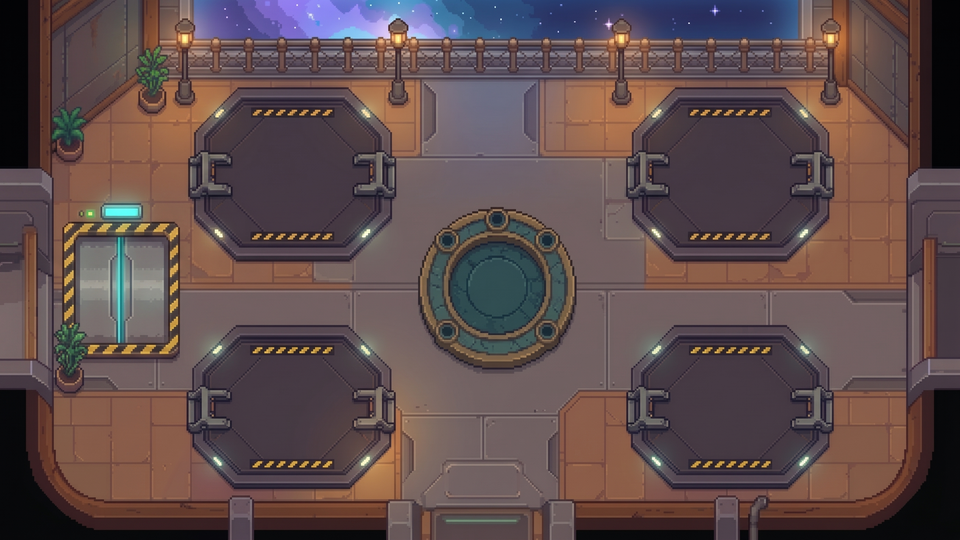
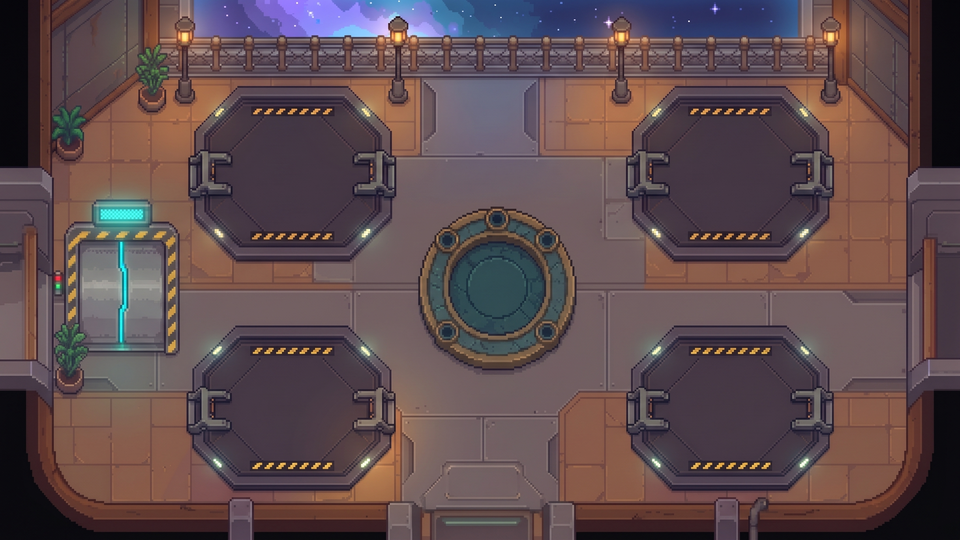
feat(welt): Marktterrasse mit echtem Hintergrund & Theken-Sprites, Hangar-Tür in die Wand, HUD-Hinweis
Claude-Session: https://claude.ai/code/session_016nKYwkpeUHJGHpF5xe8T1D

diff --git a/src/scenes/MarketTerraceScene.ts b/src/scenes/MarketTerraceScene.ts
@@ -1,5 +1,5 @@
 import { getHDArt } from '../assets/artLoader';
-import { drawGlow, drawPixelShadow } from '../assets/pixelArt';
+import { drawContactShadow, drawFloorGlow, drawGlow, drawPixelShadow } from '../assets/pixelArt';
 import { getAtlas } from '../assets/sprites';
 import { ALCHEMY_BUFFS } from '../data/guildMarket';
 import { sound } from '../engine/audio';
@@ -28,8 +28,8 @@ interface Particle {
 
 const DECK_LEFT = 68;
 const DECK_RIGHT = 412;
-const DECK_TOP = 104;
-const DECK_BOTTOM = 224;
+const DECK_TOP = 102;
+const DECK_BOTTOM = 186; // Geländer des generierten Hintergrunds liegt bei y ≈ 196
 
 const HUB_RETURN_POS = { x: 240, y: 106 };
 const ALCHEMY_BAR_POS = { x: 132, y: 152 };
@@ -265,18 +265,20 @@ export class MarketTerraceScene {
       ctx.fillRect(0, 0, VIRTUAL_WIDTH, VIRTUAL_HEIGHT);
     }
 
-    // Twinkling stars in upper & lower starfield vistas
-    for (const s of this.stars) {
+    // Twinkling stars in upper & lower starfield vistas (nur beim prozeduralen Fallback — das Bild hat eigene Sterne)
+    for (const s of art.marketTerraceBg ? [] : this.stars) {
       const a = 0.25 + 0.75 * Math.max(0, Math.sin(this.time * 2.5 + s.phase));
       ctx.fillStyle = `rgba(255, 250, 224, ${a * (isNight ? 1.0 : 0.78)})`;
       ctx.fillRect(s.x, s.y, isNight ? 1.8 : 1.4, isNight ? 1.8 : 1.4);
     }
 
     // Ambient station glows
-    drawGlow(ctx, ALCHEMY_BAR_POS.x, ALCHEMY_BAR_POS.y - 4, 42, '#34d399', 0.24 + pulse * 0.1);
-    drawGlow(ctx, GUILD_SHOWCASE_POS.x, GUILD_SHOWCASE_POS.y - 4, 34, '#fbbf24', 0.22 + pulse * 0.08);
-    drawGlow(ctx, TRADE_BANK_POS.x, TRADE_BANK_POS.y - 4, 42, '#fde047', 0.24 + pulse * 0.1);
-    drawGlow(ctx, HUB_RETURN_POS.x, HUB_RETURN_POS.y - 8, 28, '#38e8d4', 0.22 + pulse * 0.08);
+    if (!art.marketTerraceBg) {
+      drawGlow(ctx, ALCHEMY_BAR_POS.x, ALCHEMY_BAR_POS.y - 4, 42, '#34d399', 0.24 + pulse * 0.1);
+      drawGlow(ctx, GUILD_SHOWCASE_POS.x, GUILD_SHOWCASE_POS.y - 4, 34, '#fbbf24', 0.22 + pulse * 0.08);
+      drawGlow(ctx, TRADE_BANK_POS.x, TRADE_BANK_POS.y - 4, 42, '#fde047', 0.24 + pulse * 0.1);
+      drawGlow(ctx, HUB_RETURN_POS.x, HUB_RETURN_POS.y - 8, 28, '#38e8d4', 0.22 + pulse * 0.08);
+    }
 
     // Depth-sorted entities: NPCs, kiosks, player
     type Drawable = { y: number; draw: () => void };
@@ -389,6 +391,21 @@ export class MarketTerraceScene {
     const y = ALCHEMY_BAR_POS.y;
     const bob = Math.sin(this.time * 3.1) * 0.6;
 
+    if (art.marketBar) {
+      // Sprite: Regal (oberer Teil) → Milo → Thekenkörper (unterer Teil), Unterkante bei y + 12
+      const bw = 88;
+      const bh = Math.round((bw * art.marketBar.height) / art.marketBar.width);
+      const bx = x - bw / 2;
+      const by = y + 12 - bh;
+      const split = 0.5;
+      drawFloorGlow(ctx, x, y + 11, 44, '#34d399', 0.12 + pulse * 0.05);
+      drawContactShadow(ctx, art.marketBar, bx, by, bw, bh, 0.75);
+      ctx.drawImage(art.marketBar, 0, 0, art.marketBar.width, art.marketBar.height * split, bx, by, bw, bh * split);
+      if (art.npcWanderer) ctx.drawImage(art.npcWanderer, x - 12, y - 30 + bob, 24, 28);
+      ctx.drawImage(art.marketBar, 0, art.marketBar.height * split, art.marketBar.width, art.marketBar.height * (1 - split), bx, by + bh * split, bw, bh * (1 - split));
+      return;
+    }
+
     // Barkeeper Milo behind counter
     if (art.npcWanderer) {
       ctx.drawImage(art.npcWanderer, x - 12, y - 34 + bob, 24, 28);
@@ -421,8 +438,18 @@ export class MarketTerraceScene {
   }
 
   private renderGuildShowcase(ctx: CanvasRenderingContext2D, pulse: number): void {
+    const art = getHDArt();
     const x = GUILD_SHOWCASE_POS.x;
     const y = GUILD_SHOWCASE_POS.y;
+    if (art.marketGuild) {
+      const gw = 34;
+      const gh = Math.round((gw * art.marketGuild.height) / art.marketGuild.width);
+      drawFloorGlow(ctx, x, y + 11, 24, '#fbbf24', 0.12 + pulse * 0.05);
+      drawContactShadow(ctx, art.marketGuild, x - gw / 2, y + 12 - gh, gw, gh, 0.75);
+      ctx.drawImage(art.marketGuild, x - gw / 2, y + 12 - gh, gw, gh);
+      drawGlow(ctx, x, y - 14, 12, '#fbbf24', 0.14 + pulse * 0.08);
+      return;
+    }
     drawPixelShadow(ctx, x, y + 10, 22, 5, 0.45);
 
     ctx.fillStyle = '#1e293b';
@@ -445,6 +472,20 @@ export class MarketTerraceScene {
     const x = TRADE_BANK_POS.x;
     const y = TRADE_BANK_POS.y;
     const bob = Math.sin(this.time * 3.6 + 1.2) * 1.4;
+
+    if (art.marketBank) {
+      const bw = 88;
+      const bh = Math.round((bw * art.marketBank.height) / art.marketBank.width);
+      const bx = x - bw / 2;
+      const by = y + 12 - bh;
+      const split = 0.45;
+      drawFloorGlow(ctx, x, y + 11, 44, '#fde047', 0.1 + pulse * 0.05);
+      drawContactShadow(ctx, art.marketBank, bx, by, bw, bh, 0.75);
+      ctx.drawImage(art.marketBank, 0, 0, art.marketBank.width, art.marketBank.height * split, bx, by, bw, bh * split);
+      if (art.botClerk) ctx.drawImage(art.botClerk, x - 11, y - 30 + bob, 22, 25);
+      ctx.drawImage(art.marketBank, 0, art.marketBank.height * split, art.marketBank.width, art.marketBank.height * (1 - split), bx, by + bh * split, bw, bh * (1 - split));
+      return;
+    }
 
     // Bank droid hovering behind vault terminal
     if (art.botClerk) {

diff --git a/src/assets/artLoader.ts b/src/assets/artLoader.ts
@@ -78,6 +78,9 @@ export interface HDArtAssets {
   vitrineT1: HTMLCanvasElement | null;
   vitrineT2: HTMLCanvasElement | null;
   vitrineT3: HTMLCanvasElement | null;
+  marketBar: HTMLCanvasElement | null;
+  marketGuild: HTMLCanvasElement | null;
+  marketBank: HTMLCanvasElement | null;
   propTrophyLeviathan: HTMLCanvasElement | null;
   /** M12 Phase C: Arena-Boden & Boss-Wand (optional, Fallback arenaFloor.ts) */
   arenaLeviathanBg: HTMLCanvasElement | null;
@@ -322,6 +325,9 @@ const art: HDArtAssets = {
   vitrineT1: null,
   vitrineT2: null,
   vitrineT3: null,
+  marketBar: null,
+  marketGuild: null,
+  marketBank: null,
   propTrophyLeviathan: null,
   arenaLeviathanBg: null,
   arenaLeviathanWall: null,
@@ -541,6 +547,9 @@ export const WORLD_OPTIONAL_SPRITES = {
   vitrineT1: 'vitrine_t1',
   vitrineT2: 'vitrine_t2',
   vitrineT3: 'vitrine_t3',
+  marketBar: 'market_bar',
+  marketGuild: 'market_guild',
+  marketBank: 'market_bank',
 } as const;
 export type WorldSpriteKey = keyof typeof WORLD_OPTIONAL_SPRITES;
 
@@ -953,6 +962,7 @@ export async function preloadHDArt(): Promise<HDArtAssets> {
     art[k] = imgToCanvas(m10Imgs[i]);
   });
 
+  art.marketTerraceBg = await loadImage('/art/market_terrace_bg.png');
   const worldKeys = Object.keys(WORLD_OPTIONAL_SPRITES) as WorldSpriteKey[];
   const worldImgs = await Promise.all(worldKeys.map((k) => loadImage(`/art/sprites/${WORLD_OPTIONAL_SPRITES[k]}.png`)));
   worldKeys.forEach((k, i) => {

diff --git a/src/ui/UIManager.ts b/src/ui/UIManager.ts
@@ -514,6 +514,10 @@ export class UIManager {
                     ? `<span><kbd>WASD</kbd>Raumhafen</span>
                        <span><kbd>E</kbd>Schiff besteigen / Docks / 5. Tor</span>
                        <span><kbd>I</kbd>Fracht &amp; Waffen</span>`
+                    : this.currentScene === 'market_terrace'
+                      ? `<span><kbd>WASD</kbd>Terrasse</span>
+                         <span><kbd>E</kbd>Alchemie-Bar / Gilde / Handelsbank / zurück</span>
+                         <span><kbd>I</kbd>Fracht &amp; Codex</span>`
                     : `<span><kbd>LMB/J</kbd>${wMeta.shortName}</span>
                        <span><kbd>RMB/K</kbd>${this.state.equippedWeapon === 'blade' ? 'Schild' : 'Spezial'}</span>
                        <span><kbd>C</kbd>Wechseln</span>

diff --git a/src/assets/pixelArt.ts b/src/assets/pixelArt.ts
@@ -170,7 +170,7 @@ export function drawContactShadow(
   const baseW = Math.max(4, (fp.right - fp.left) * dw);
   const cx = dx + ((fp.left + fp.right) / 2) * dw;
   const by = dy + fp.bottom * dh;
-  const ry = Math.max(2.4, baseW * 0.17);
+  const ry = Math.min(7, Math.max(2.4, baseW * 0.17)); // breite Theken: Schattentiefe begrenzen
   // Drei Lagen: weiter Boden-Schatten (deutlich breiter als die Standfläche), mittlerer Schatten, harter Kontaktkern direkt unter der Kante
   drawPixelShadow(ctx, cx, by - ry * 0.2, baseW * 0.74, ry * 1.1, alpha * 0.4);
   drawPixelShadow(ctx, cx, by - ry * 0.45, baseW * 0.6, ry * 0.8, alpha * 0.65);

diff --git a/handoff/world_overhaul.md b/handoff/world_overhaul.md
@@ -13,7 +13,8 @@
 - [x] P1c Kompass-Hologramm → bündiges Boden-Medaillon (`hub_bg`); `drawSpriteFoot` (`hubEvolution.ts`) setzt die sichtbare Unterkante exakt auf den Fußpunkt + Kontaktschatten (`spriteFootBottom`); SaleBox, gelandete Kapsel ebenfalls
 - [x] P2 Laden: Vitrinen je Stufe (`vitrine_t1..3`, `renderPedestal`), Intro-Look; ⬜ Sternenlampe/Schlüssel aus Intro-Panel als Deko, `shop_bg_t2` prüfen
 - [x] Truhen: futuristische Panzer-Kiste (offen/zu), Glut solange Beute drin ist; ⬜ Öffnen-Animation (Deckel springt auf)
-- [ ] ⬜ Offset-Audit: Pods/Drops/Kristall-Spire/Backroom/Markt-Terrasse/Hangar-Schiffe (nächster Schritt: weitere `drawPixelShadow` neben `drawImage` auf `drawContactShadow` umstellen)
+- [x] Offset-Audit erledigt (Hub-Props, Laden, Truhen, Pods, Kapsel, Marktterrasse). Rest: Quartier & Hangar-Schiffe sind in Hintergrund/Sprites verankert (geprüft, ok). Alt: Pods/Drops/Kristall-Spire/Backroom/Markt-Terrasse/Hangar-Schiffe (nächster Schritt: weitere `drawPixelShadow` neben `drawImage` auf `drawContactShadow` umstellen)
+- [x] Marktterrasse komplett neu: `public/art/market_terrace_bg.png` + Sprites `market_bar/guild/bank.png` (vorher nur Rechtecke im Nichts); Deck-Grenzen an Geländer angepasst (`DECK_BOTTOM 186`), HUD-Hinweis für `market_terrace`; Hangar-Tür neu (Statuslicht, Schild).
 - [ ] P3 … P6 (siehe oben)
 
 ## Praxis-Learnings
@@ -27,3 +28,4 @@
 8. **Koordinaten der Szenen sind logisch 480×270 (Anzeige 2×):** Sprite-Zielgrößen in logischen px wählen (Spieler 24×28; Vitrine 32×42, Truhe 34×34), nicht in Screenshot-px.
 9. Bodenverankerung = (a) frontale Kamera, (b) Sprite-Unterkante exakt auf Fußpunkt, (c) `drawContactShadow` (3 Lagen, breiter als die Standfläche, Alpha ~0.7), (d) Leuchten am Boden als flache Ellipse `drawFloorGlow` statt Kugel-`drawGlow`.
 10. Vitrine: Ware schwebt IM Glaswürfel; Glas-Overlay (obere 56 % des Sprites, Alpha 0.28) wird über die Ware gelegt.
+11. Hintergrund-Rezept für neue Szenen: Szene als 16:9-Bild mit Rahmen wie `hub_bg` erzeugen (Prompt: Layout in %-Angaben, „deck EMPTY where counters go“), Theken/Props separat als frontale Sprites auf Weiß (`scripts/white-to-alpha.py`-Logik), im Code zweigeteilt zeichnen (oberer Teil → NPC → unterer Teil), damit der NPC hinter der Theke steht. `gen-sheet.py` kennt kein Seitenverhältnis 2:1 (→ 3:2 nehmen).

diff --git a/SPRITE_QUEUE.md b/SPRITE_QUEUE.md
@@ -295,3 +295,4 @@ Wer im Code oder in einem Plan ein neues benötigtes Sprite, ein neues M11-Sheet
 - [x] **W-03** `shop_bg.png`, `shop_bg_t2.png`, `shop_bg_t3.png` ersetzt — Portal → Airlock-Tür
 - [x] **W-04** `vitrine_t1.png`, `vitrine_t2.png`, `vitrine_t3.png` (64×64) — Holo-Vitrinen je Laden-Stufe (optional, Fallback `pedestal.png`)
 - [x] **W-05** `chest_closed.png`, `chest_open.png` (64×64) ersetzt — futuristische Panzer-Kiste (Originale `art_source/_raw/chest_*_OLD.png`)
+- [x] **W-06** `public/art/market_terrace_bg.png` (neu), `market_bar.png`, `market_guild.png`, `market_bank.png` (Marktterrasse, vorher prozedural); `hangar_bg.png` Tür erneut überarbeitet
